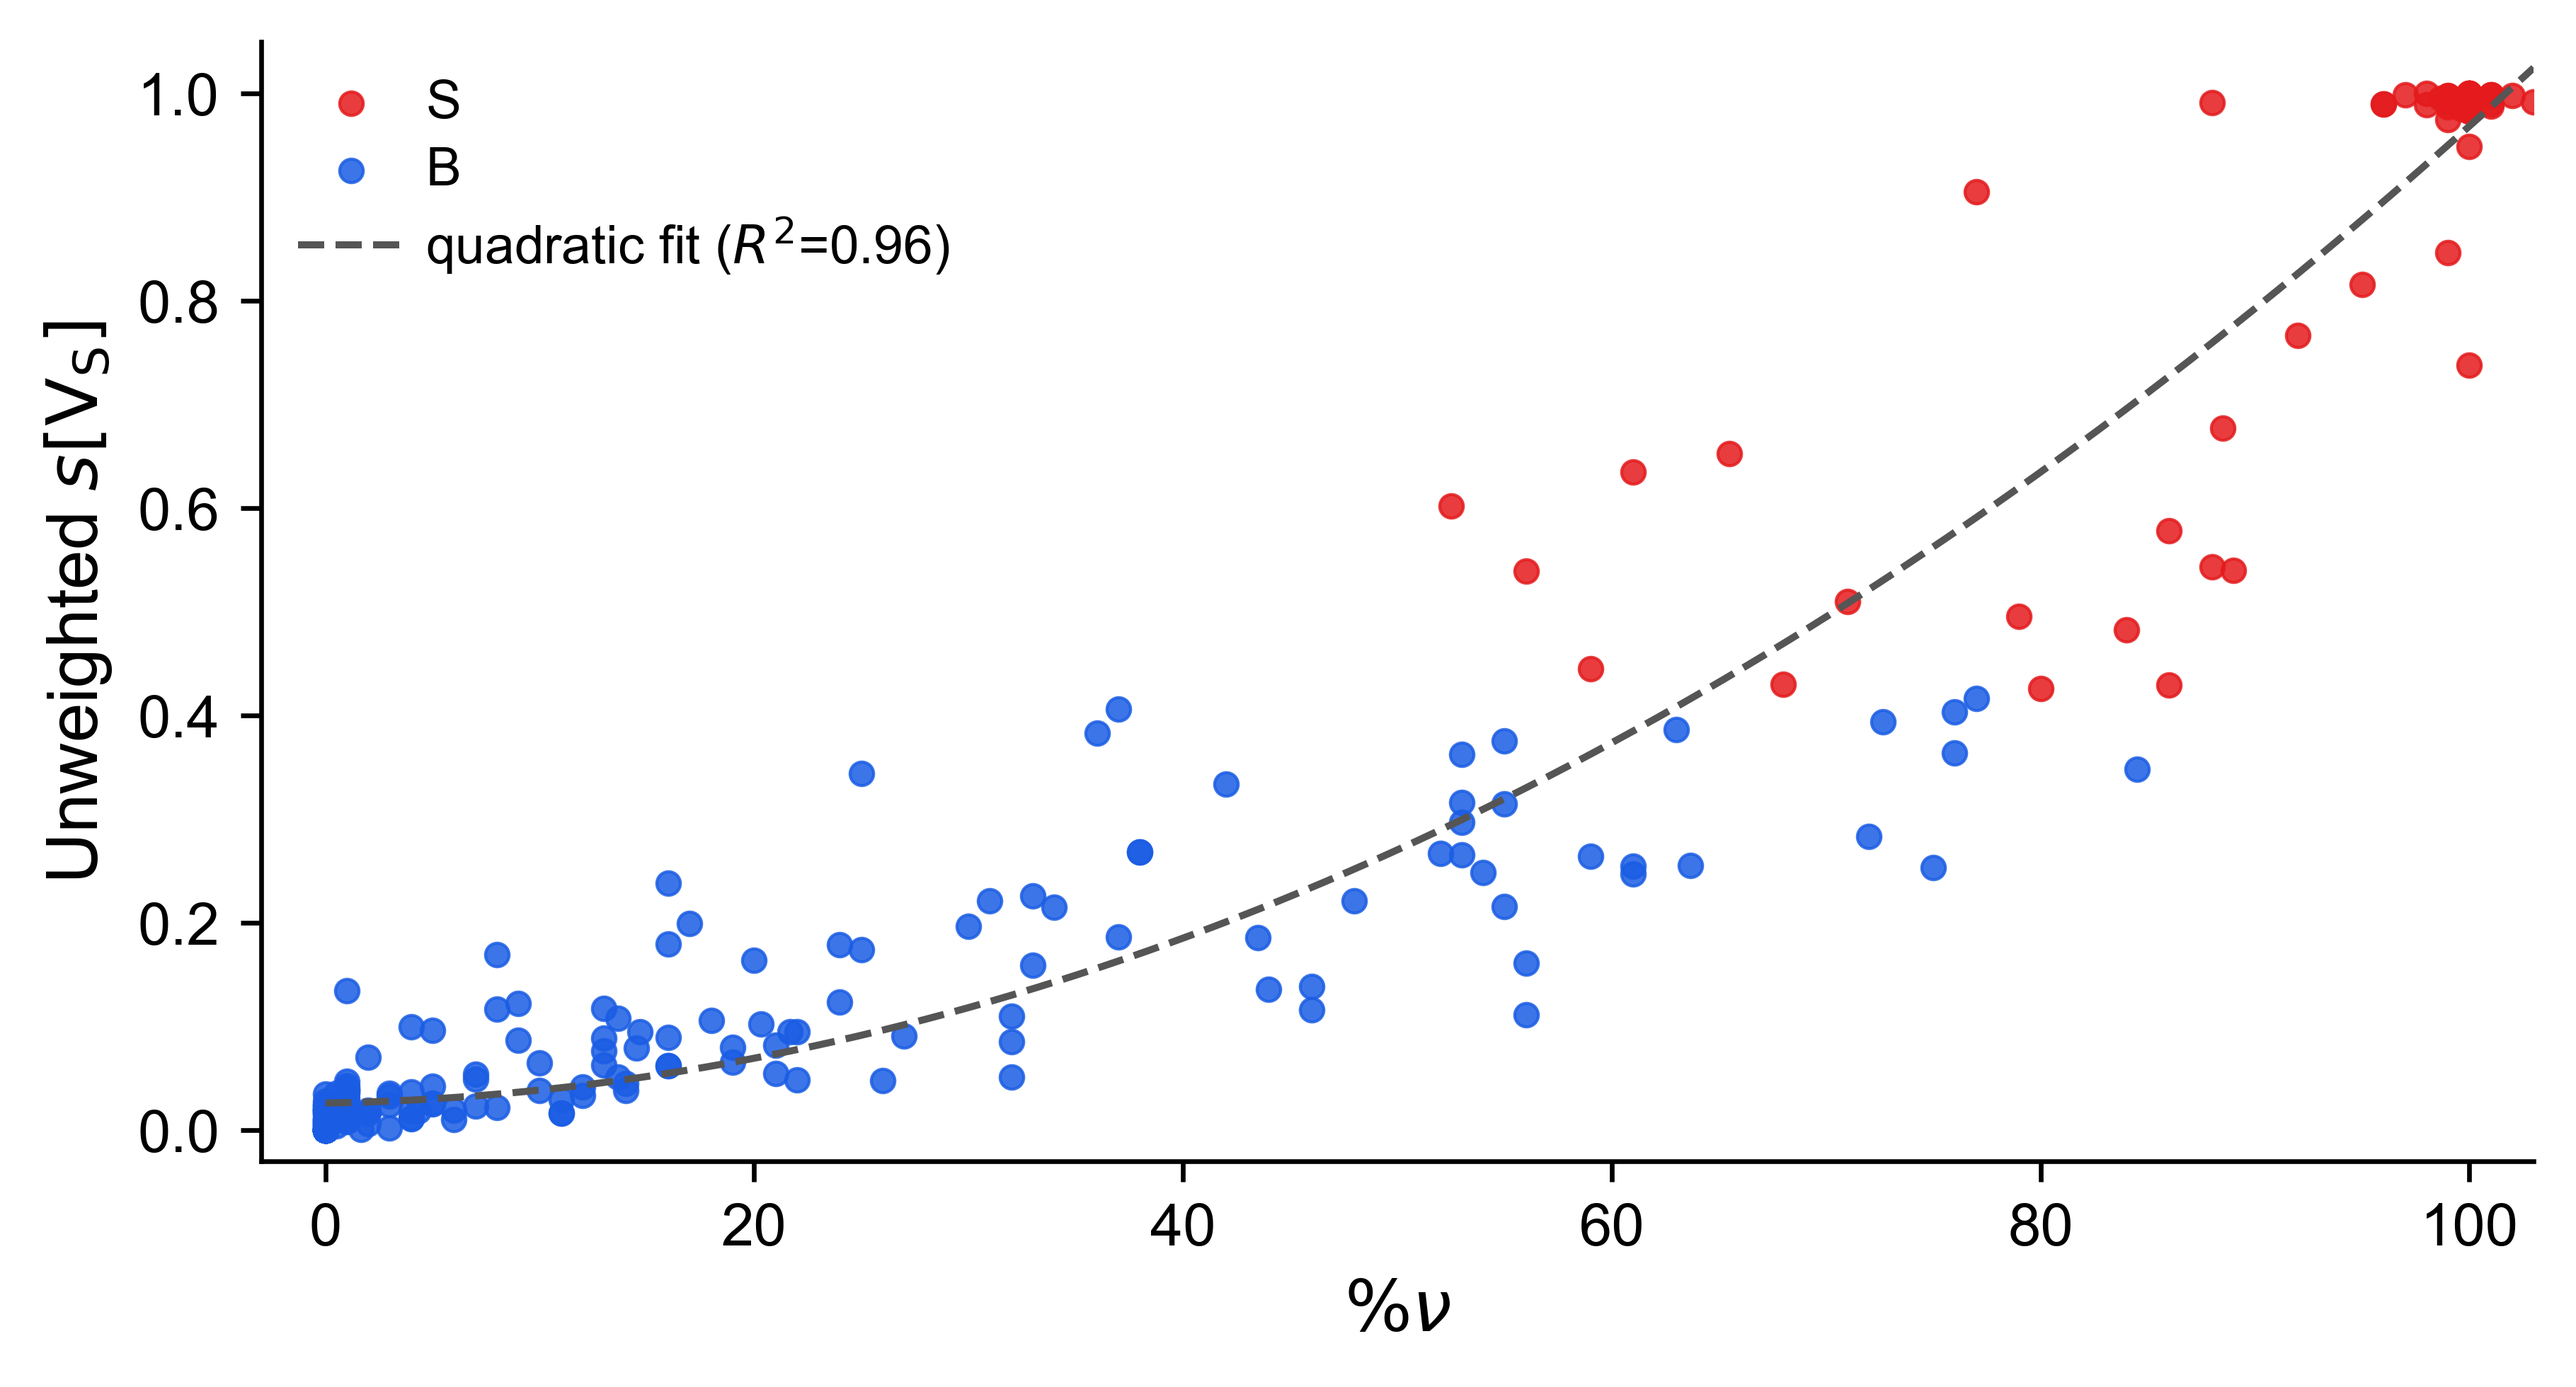
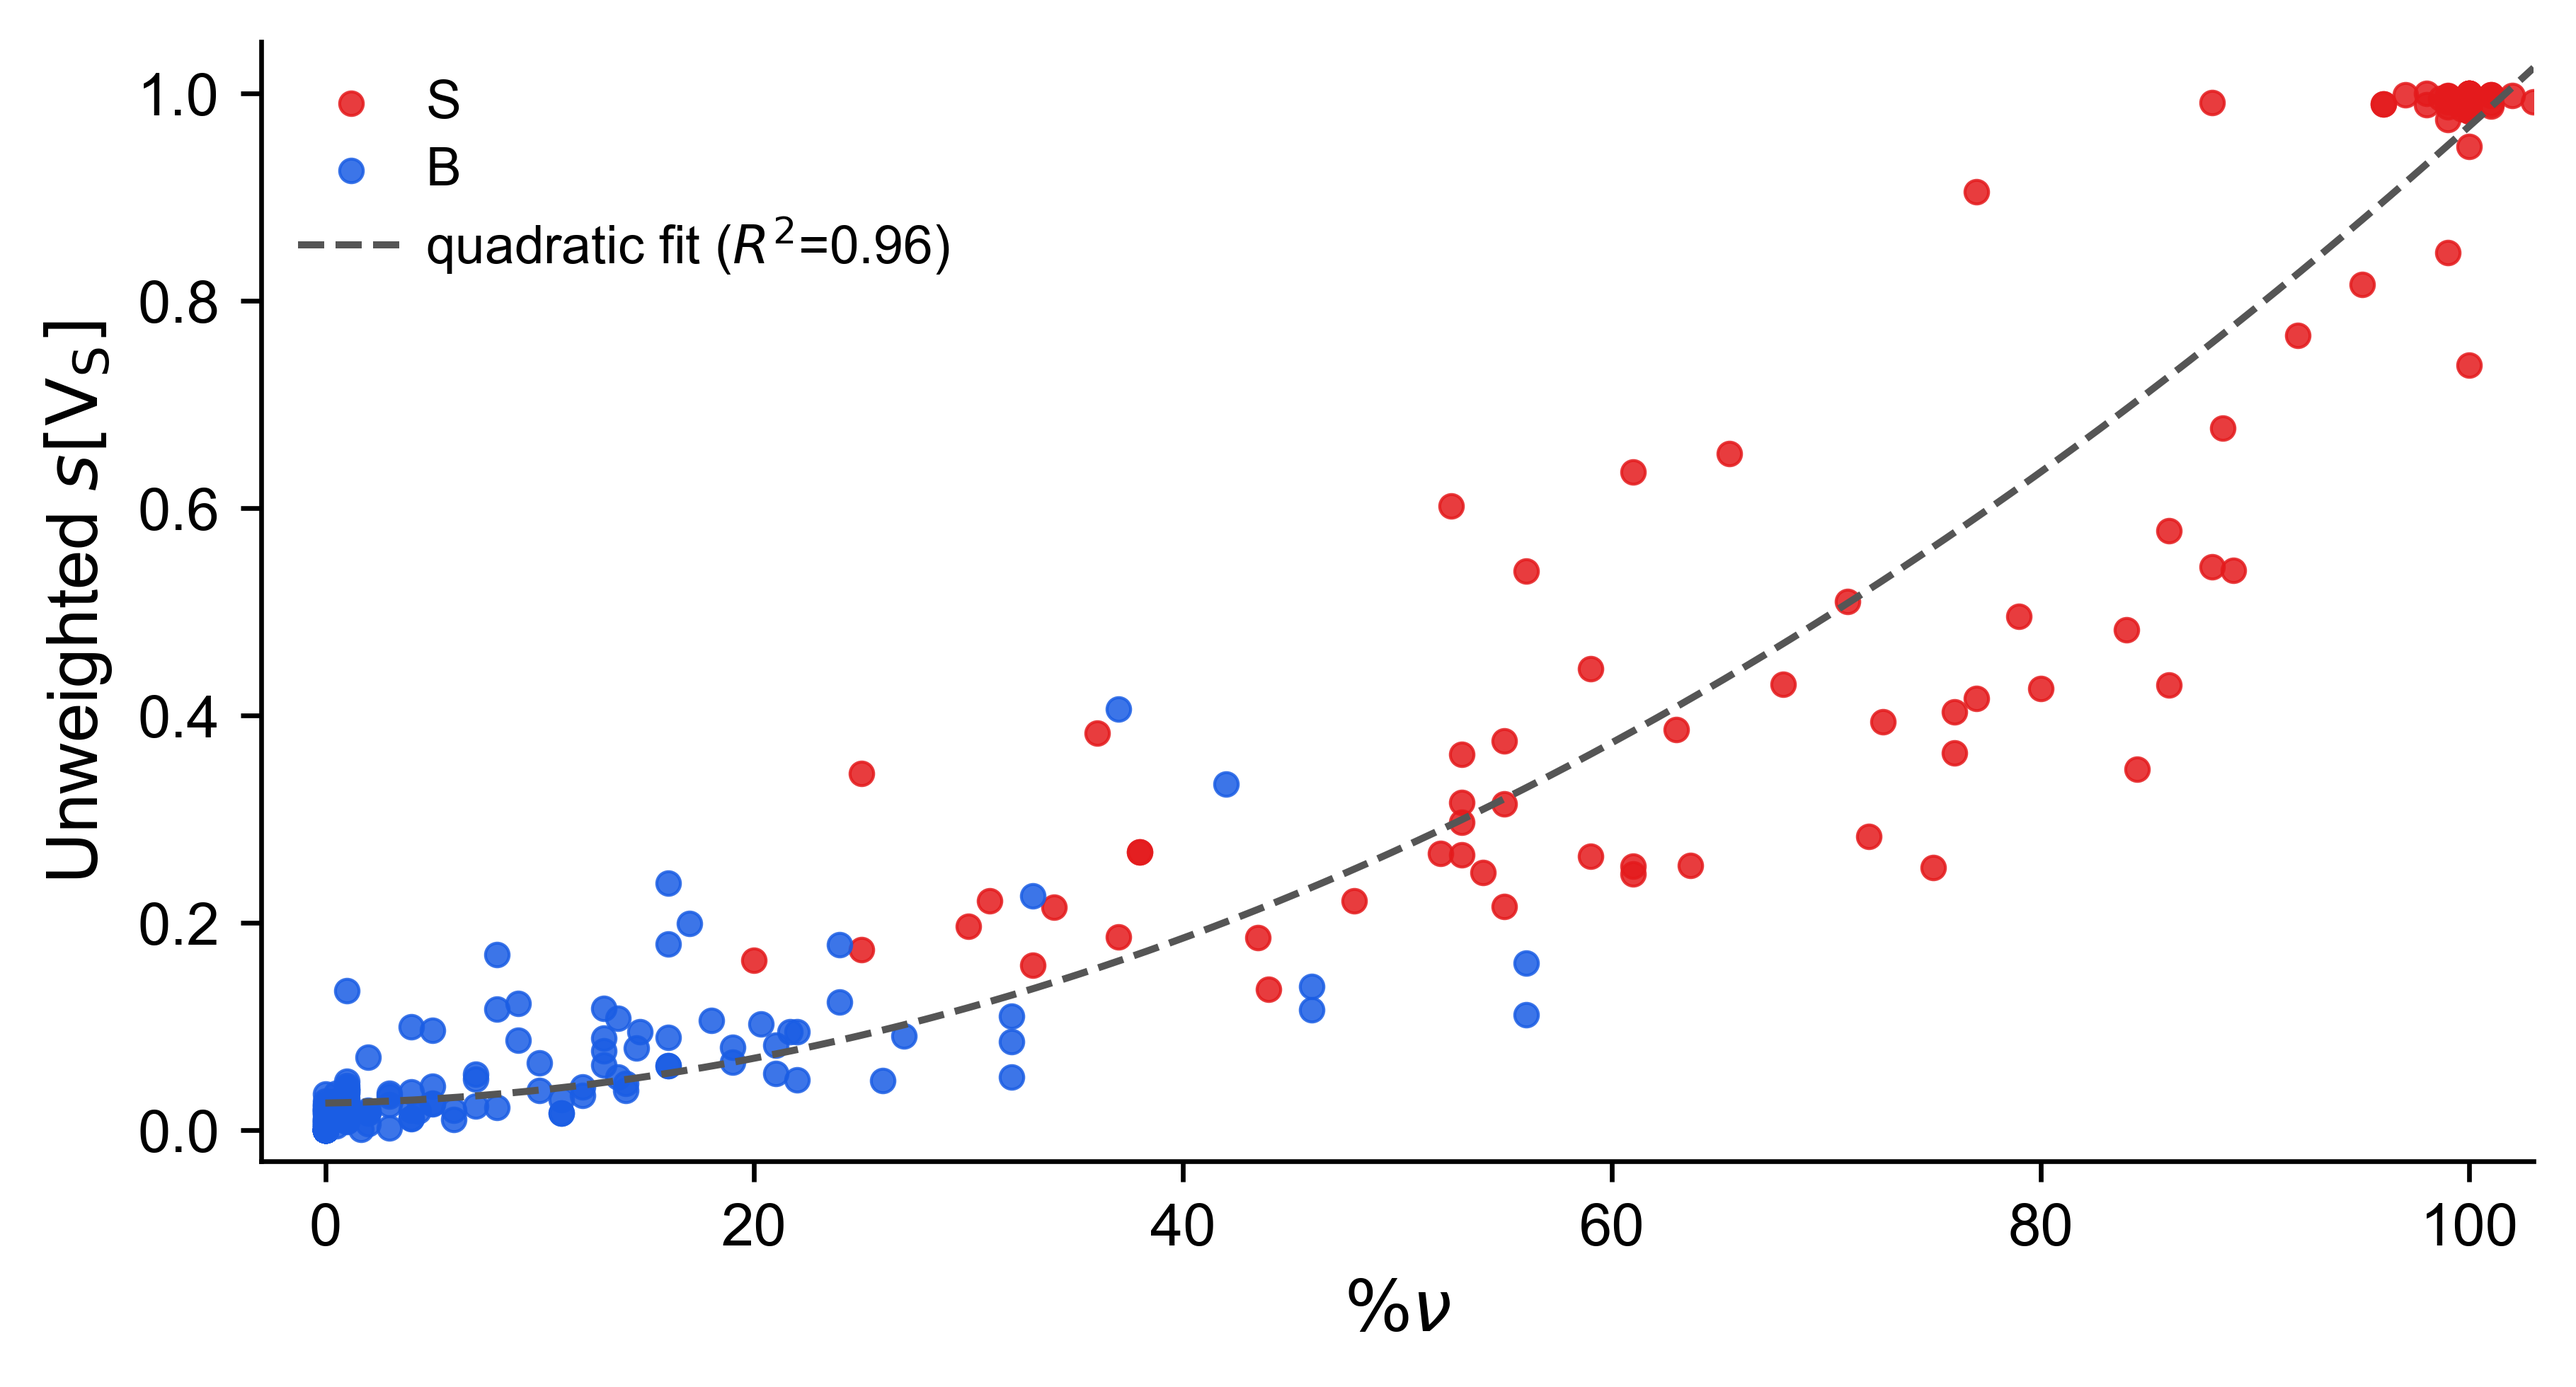
plot_ped_vs_vscore: add label_source_csv to color points by a different definition's S/B split
archive_unweighted's fig_ped_vs_vscore now plots the unweighted x/y (PED vs
unweighted V_Stretch, quadratic fit) but colors each point by the CANONICAL
mu-weighted S/B classification (tau_SB=0.42), joined by Molecule+Mode from
data/results/combined_ped_vs_scores.csv -- all 390 rows matched cleanly
(identical frequencies, weighting doesn't move them). Shows where the two
V-score definitions actually disagree on stretch/bend character, not just
where each definition's own score crosses its own cutoff.

diff --git a/src/figures.py b/src/figures.py
@@ -3207,6 +3207,7 @@ def plot_ped_vs_vscore(
     tau_SB=None,
     fit_degree=1,
     ylabel=r"$s[\mathrm{V_S}]$",
+    label_source_csv=None,
 ):
     """VEDA4's PED-based %nu (``PED_Stretch_pct``) vs. this framework's own
     molecule-level stretch score s[V_S] (``V_Stretch``), one point per
@@ -3248,6 +3249,17 @@ def plot_ped_vs_vscore(
     math label; e.g. archive_unweighted callers pass a label that says
     "Unweighted" to distinguish this from the canonical mu-weighted figure
     of the same name).
+
+    ``label_source_csv``, if given, points at a DIFFERENT combined_ped_vs_
+    scores.csv (matched to this one's rows by Molecule+Mode) whose own
+    V_Stretch column is used to derive the S/B coloring via
+    ``vib_label_binary(v, tau_SB)`` -- ``tau_SB`` still applies here (falls
+    back to ``Thresholds.calibrated().tau_SB`` the same as the no-override
+    path). The plotted x/y (``PED_Stretch_pct``/``V_Stretch``) and the
+    fitted curve always come from ``csv_input`` -- this only swaps which
+    definition's classification colors the points, e.g. coloring an
+    unweighted-definition scatter by the canonical mu-weighted S/B split.
+    Raises ValueError if any row fails to find a Molecule+Mode match.
     """
     _style()
     df = pd.read_csv(csv_input)
@@ -3256,7 +3268,19 @@ def plot_ped_vs_vscore(
     df = df[df["Molecule"].isin(test_molecules)]
     df = df.dropna(subset=["PED_Stretch_pct", "V_Stretch"])
     n_raw_modes = len(df)
-    if tau_SB is not None:
+    if label_source_csv is not None:
+        df = df.copy()
+        src_tau_SB = tau_SB if tau_SB is not None else Thresholds.calibrated().tau_SB
+        src = pd.read_csv(label_source_csv).dropna(subset=["V_Stretch"])
+        src = src.assign(label=src["V_Stretch"].map(lambda v: vib_label_binary(v, src_tau_SB)))
+        df = df.drop(columns=["label"]).merge(
+            src[["Molecule", "Mode", "label"]], on=["Molecule", "Mode"], how="left")
+        if df["label"].isna().any():
+            missing = df.loc[df["label"].isna(), ["Molecule", "Mode"]]
+            raise ValueError(
+                f"label_source_csv={label_source_csv!r} has no Molecule+Mode "
+                f"match for {len(missing)} row(s), e.g. {missing.iloc[0].to_dict()}")
+    elif tau_SB is not None:
         df = df.copy()
         df["label"] = df["V_Stretch"].map(lambda v: vib_label_binary(v, tau_SB))
     df = _collapse_degenerate_freqs(
